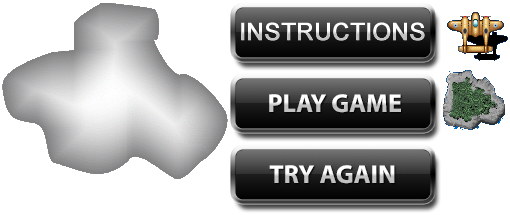
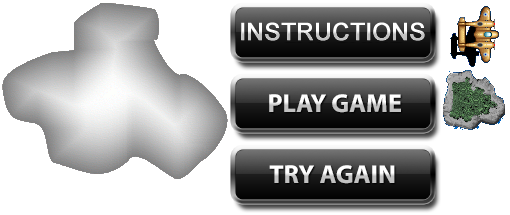
Building the instruction screen and button

Changed region(s): [[0.8529, 0.0279, 1.0, 0.307]]

diff --git a/mailPilot-v11/Scripts/states/menu.js b/mailPilot-v11/Scripts/states/menu.js
@@ -17,10 +17,21 @@ var states;
         changeState(currentState);
     }
     states.playButtonClicked = playButtonClicked;
+    function instructionsButtonClicked(event) {
+        stage.removeChild(game);
+        plane.destroy();
+        game.removeAllChildren();
+        game.removeAllEventListeners();
+        currentState = constants.INSTRUCTIONS_STATE;
+        changeState(currentState);
+    }
+    states.instructionsButtonClicked = instructionsButtonClicked;
 
     function menuState() {
         ocean.update();
-        plane.update();
+
+        //plane.update();
+        plane.destroy();
     }
     states.menuState = menuState;
 
@@ -38,13 +49,18 @@ var states;
         stage.cursor = "default";
 
         // Display Game Over
-        gameNameLabel = new objects.Label(stage.canvas.width / 2, 40, "MAIL PILOT");
+        gameNameLabel = new objects.Label(stage.canvas.width / 2, 40, "SIDE SCROLLER");
         game.addChild(gameNameLabel);
 
         // Display Play Again Button
         playButton = new objects.Button(stage.canvas.width / 2, 300, "playButton");
         game.addChild(playButton);
         playButton.addEventListener("click", playButtonClicked);
+
+        // Display Play Again Button
+        instructionsButton = new objects.Button(stage.canvas.width / 2, 300, "instructionsButton");
+        game.addChild(instructionsButton);
+        playButton.addEventListener("click", instructionsButtonClicked);
 
         stage.addChild(game);
     }

diff --git a/mailPilot-v11/Scripts/states/menu.ts b/mailPilot-v11/Scripts/states/menu.ts
@@ -15,10 +15,19 @@ module states {
         currentState = constants.PLAY_STATE;
         changeState(currentState);
     }
+    export function instructionsButtonClicked(event: MouseEvent) {
+        stage.removeChild(game);
+        plane.destroy();
+        game.removeAllChildren();
+        game.removeAllEventListeners();
+        currentState = constants.INSTRUCTIONS_STATE;
+        changeState(currentState);
+    }
 
     export function menuState() {
         ocean.update();
-        plane.update();
+        //plane.update();
+        plane.destroy();
     }
 
     export function menu() {
@@ -35,13 +44,18 @@ module states {
         stage.cursor = "default";
 
         // Display Game Over
-        gameNameLabel = new objects.Label(stage.canvas.width / 2, 40, "MAIL PILOT");
+        gameNameLabel = new objects.Label(stage.canvas.width / 2, 40, "SIDE SCROLLER");
         game.addChild(gameNameLabel);
 
         // Display Play Again Button
         playButton = new objects.Button(stage.canvas.width / 2, 300, "playButton");
         game.addChild(playButton);
         playButton.addEventListener("click", playButtonClicked);
+
+        // Display Play Again Button
+        instructionsButton = new objects.Button(stage.canvas.width / 2, 300, "instructionsButton");
+        game.addChild(instructionsButton);
+        playButton.addEventListener("click", instructionsButtonClicked);
 
         stage.addChild(game);
     }

diff --git a/mailPilot-v11/Scripts/game.ts b/mailPilot-v11/Scripts/game.ts
@@ -28,6 +28,7 @@ var collision: managers.Collision;
 
 var tryAgain: objects.Button;
 var playButton: objects.Button;
+var instructionsButton: objects.Button;
 
 var currentState: number;
 var currentStateFunction;
@@ -68,6 +69,12 @@ function changeState(state: number): void {
     switch (state) {
         case constants.MENU_STATE:
             // instantiate menu screen
+            currentStateFunction = states.menuState;
+            states.menu();
+            break;
+
+        case constants.INSTRUCTIONS_STATE:
+            // instructions screen
             currentStateFunction = states.menuState;
             states.menu();
             break;

diff --git a/mailPilot-v11/Scripts/game.js b/mailPilot-v11/Scripts/game.js
@@ -26,6 +26,7 @@ var collision;
 
 var tryAgain;
 var playButton;
+var instructionsButton;
 
 var currentState;
 var currentStateFunction;
@@ -65,6 +66,12 @@ function changeState(state) {
     switch (state) {
         case constants.MENU_STATE:
             // instantiate menu screen
+            currentStateFunction = states.menuState;
+            states.menu();
+            break;
+
+        case constants.INSTRUCTIONS_STATE:
+            // instructions screen
             currentStateFunction = states.menuState;
             states.menu();
             break;

diff --git a/mailPilot-v11/Scripts/constants.js b/mailPilot-v11/Scripts/constants.js
@@ -4,9 +4,10 @@
     constants.MENU_STATE = 0;
     constants.PLAY_STATE = 1;
     constants.GAME_OVER_STATE = 2;
+    constants.INSTRUCTIONS_STATE = 3;
 
     // Game Constants
-    constants.CLOUD_NUM = 3;
+    constants.CLOUD_NUM = 1;
     constants.LABEL_FONT = "40px Consolas";
     constants.LABEL_COLOUR = "#FFFF00";
     constants.PLANE_LIVES = 3;

diff --git a/mailPilot-v11/Scripts/constants.ts b/mailPilot-v11/Scripts/constants.ts
@@ -3,6 +3,7 @@
     export var MENU_STATE: number = 0;
     export var PLAY_STATE: number = 1;
     export var GAME_OVER_STATE: number = 2;
+    export var INSTRUCTIONS_STATE: number = 3;
 
     // Game Constants
     export var CLOUD_NUM: number = 1;

diff --git a/mailPilot-v11/Scripts/managers/asset.ts b/mailPilot-v11/Scripts/managers/asset.ts
@@ -33,7 +33,6 @@
     export class Assets {
         public static manifest;
         public static data;
-
         public static loader;
         public static atlas: createjs.SpriteSheet;
 
